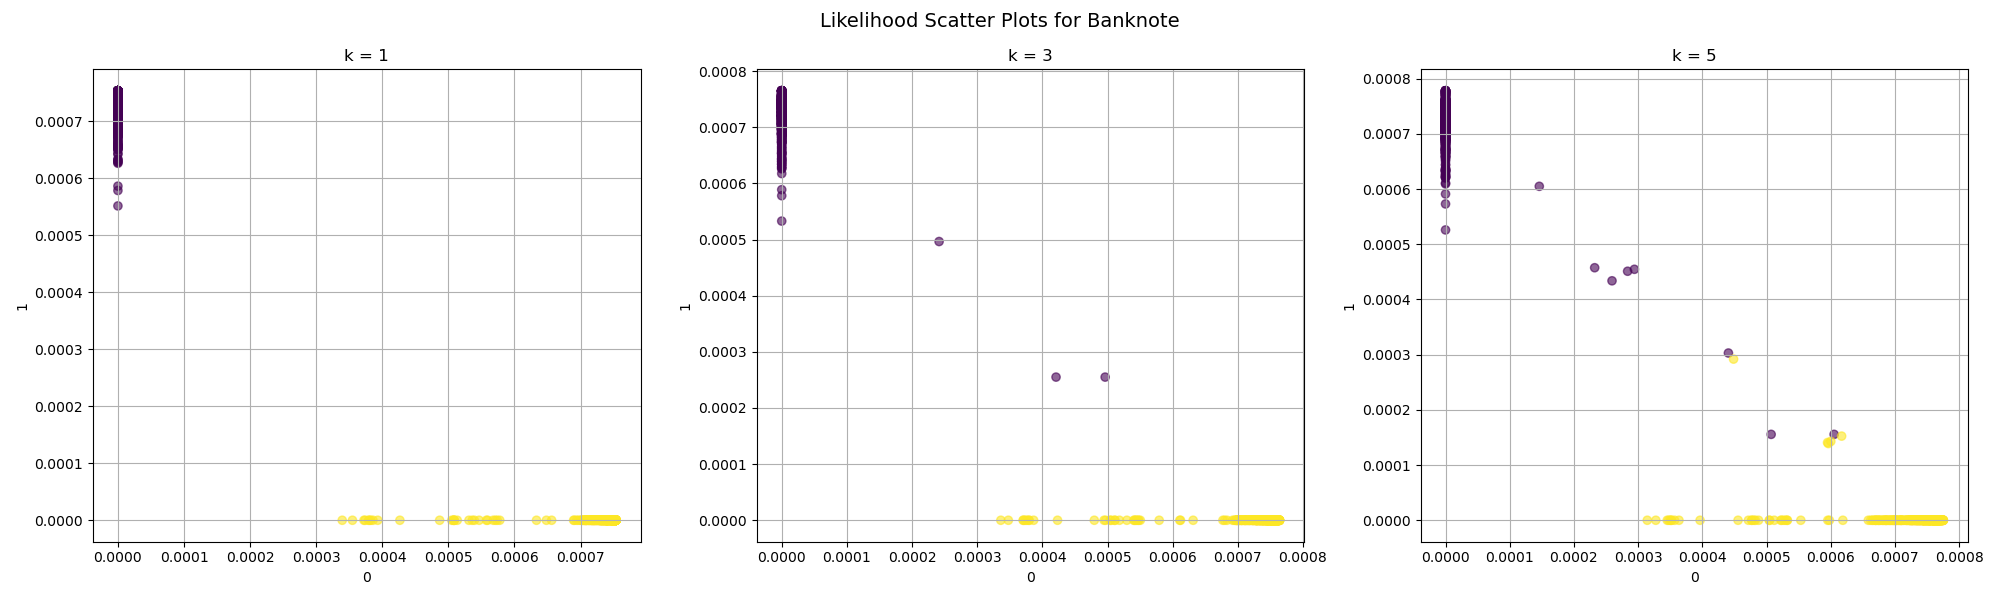
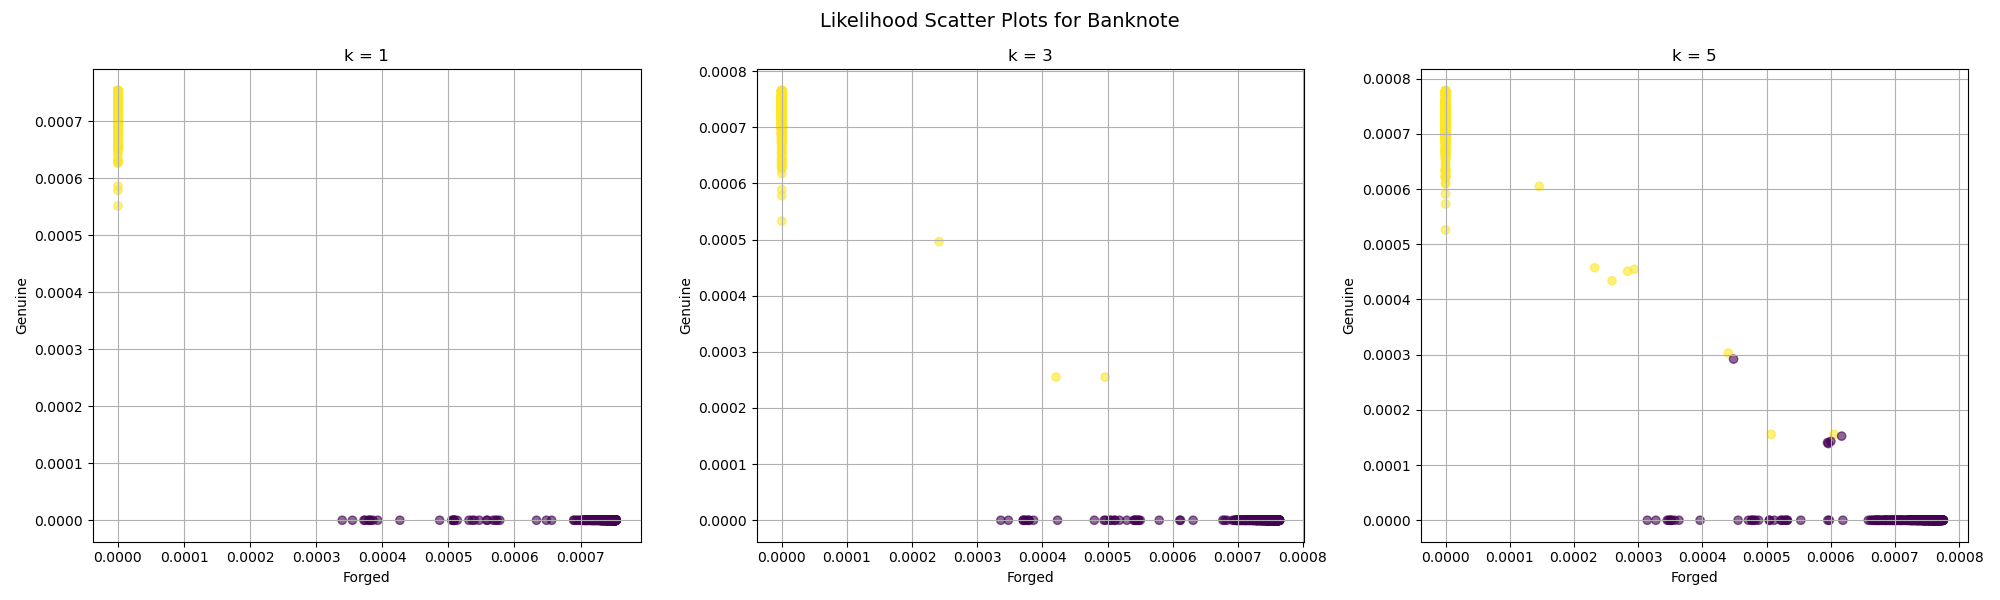
Update dataset metadata and improve label mapping in real dataset loading functions

diff --git a/scripts/real_prepare.py b/scripts/real_prepare.py
@@ -100,6 +100,8 @@ def store_real_dataset(X, y, name, n_splits=10):
 def load_breast_cancer_dataset():
   data = load_breast_cancer(return_X_y=False)
   X, y = data.data, data.target
+  label_map = {0: "Malignant", 1: "Benign"}
+  y = np.vectorize(label_map.get)(y)
   return X, y.reshape(-1, 1)
 
 def load_pima_diabetes():
@@ -120,29 +122,33 @@ def load_pima_diabetes():
     df[feat] = df[feat].fillna(df[feat].median())
   
   X = df.drop("Outcome", axis=1).values
-  y = df["Outcome"].values.reshape(-1, 1)
-  return X, y
+  y = df["Outcome"].values
+  label_map = {0: "Non-Diabetic", 1: "Diabetic"}
+  y = np.vectorize(label_map.get)(y)
+  return X, y.reshape(-1, 1)
 
 def load_haberman_survival():
   url = "https://archive.ics.uci.edu/ml/machine-learning-databases/haberman/haberman.data"
 
   df = pd.read_csv(url, header=None,
-                    names=["Age","YearOfOperation","PositiveNodes","SurvivalStatus"])
+                    names=["Age", "YearOfOperation", "PositiveNodes", "SurvivalStatus"])
   
   y = df["SurvivalStatus"].values
   X = df.iloc[:, :-1].values
-
+  label_map = {1: "Survived", 2: "Not Survived"}
+  y = np.vectorize(label_map.get)(y)
   return X, y.reshape(-1, 1)
 
 def load_banknote_authentication():
   url = "https://archive.ics.uci.edu/ml/machine-learning-databases/00267/data_banknote_authentication.txt"
 
   df = pd.read_csv(url, header=None,
-                    names=["Variance","Skewness","Curtosis","Entropy","Class"])
+                    names=["Variance", "Skewness", "Curtosis", "Entropy", "Class"])
   
   X = df.iloc[:, :-1].values
   y = df["Class"].values
-  
+  label_map = {0: "Genuine", 1: "Forged"}
+  y = np.vectorize(label_map.get)(y)
   return X, y.reshape(-1, 1)
 
 def load_sonar():
@@ -154,7 +160,8 @@ def load_sonar():
   # Last column is 'M' or 'R'
   X = df.iloc[:, :-1].values
   y = df.iloc[:, -1].values
-
+  label_map = {"M": "Mine", "R": "Rock"}
+  y = np.vectorize(label_map.get)(y)
   return X, y.reshape(-1, 1)
 
 def load_adult_census():
@@ -189,7 +196,8 @@ def load_ionosphere():
 
   X = ionosphere.data.to_numpy()
   y = ionosphere.target.to_numpy()
-
+  label_map = {"b": "Bad", "g": "Good"}
+  y = np.vectorize(label_map.get)(y)
   return X, y.reshape(-1, 1)
 
 def load_spect_heart():
@@ -197,7 +205,8 @@ def load_spect_heart():
 
   X = spect.data.to_numpy()
   y = spect.target.to_numpy().astype(int)
-
+  label_map = {0: "Normal", 1: "Abnormal"}
+  y = np.vectorize(label_map.get)(y)
   return X, y.reshape(-1, 1)
 
 def load_all_datasets():

diff --git a/scripts/real_compare.py b/scripts/real_compare.py
@@ -105,7 +105,14 @@ def main():
 
         nn_predicted = load_predicted_samples(str(nn_predicted_path))
         if nn_predicted:
-          y_pred = [entry.target.target_int for entry in nn_predicted.entries]
+          y_pred = [
+            entry.target.target_str if entry.target.target_str else entry.target.target_int
+            for entry in nn_predicted.entries
+          ]
+          y_true = [
+            entry.ground_truth.target_str if entry.ground_truth.target_str else entry.ground_truth.target_int
+            for entry in test_samples.entries
+          ]
           nn_metrics['accuracy'].append(accuracy_score(y_true, y_pred))
       except subprocess.CalledProcessError as e:
         print(f"nn-clas fold {fold} failed: {e}")
@@ -138,7 +145,14 @@ def main():
 
           knn_predicted = load_predicted_samples(str(knn_predicted_path))
           if knn_predicted:
-            y_pred = [entry.target.target_int for entry in knn_predicted.entries]
+            y_pred = [
+              entry.target.target_str if entry.target.target_str else entry.target.target_int
+              for entry in knn_predicted.entries
+            ]
+            y_true = [
+              entry.ground_truth.target_str if entry.ground_truth.target_str else entry.ground_truth.target_int
+              for entry in test_samples.entries
+            ]
             knn_metrics['k_metrics'][k]['accuracy'].append(accuracy_score(y_true, y_pred))
       except subprocess.CalledProcessError as e:
         print(f"knn-clas fold {fold} failed: {e}")

diff --git a/scripts/comparison_results/setsresults_timing.tex b/scripts/comparison_results/setsresults_timing.tex
@@ -5,14 +5,14 @@
 \hline
 \multirow{2}{*}{\textbf{Dataset}} & \multicolumn{2}{c|}{\textbf{Training (ms)}} & \multicolumn{4}{c|}{\textbf{Prediction (ms)}} \\ \cline{2-7}
  & \textbf{nn} & \textbf{knn} & \textbf{nn} & \textbf{1nn} & \textbf{3nn} & \textbf{5nn} \\ \hline
-Ionosphere & 91.20 & 29.60 & 2.20 & 3.00 & 3.00 & 2.90 \\ \hline
-Binary Digits & 231.00 & 72.70 & 2.60 & 3.00 & 2.90 & 3.00 \\ \hline
-Haberman & 15.00 & 7.00 & 2.10 & 2.50 & 2.20 & 2.40 \\ \hline
-Pima Diabetes & 119.90 & 37.70 & 2.60 & 3.20 & 3.10 & 3.10 \\ \hline
-Banknote & 347.30 & 58.90 & 3.00 & 3.10 & 3.00 & 3.00 \\ \hline
-Sonar & 58.10 & 22.50 & 2.50 & 2.80 & 2.80 & 2.70 \\ \hline
-Breast Cancer & 216.00 & 33.70 & 2.70 & 3.00 & 3.00 & 2.90 \\ \hline
-SPECT Heart & 242.10 & 72.40 & 2.50 & 2.90 & 3.00 & 3.00 \\ \hline
+Ionosphere & 94.30 & 27.30 & 2.40 & 3.00 & 2.90 & 3.20 \\ \hline
+Binary Digits & 227.40 & 72.20 & 2.70 & 3.00 & 2.80 & 2.90 \\ \hline
+Haberman & 16.70 & 6.40 & 2.20 & 3.20 & 3.30 & 3.60 \\ \hline
+Pima Diabetes & 100.80 & 35.80 & 3.20 & 3.10 & 3.10 & 3.20 \\ \hline
+Banknote & 539.90 & 93.30 & 4.70 & 4.40 & 4.80 & 4.90 \\ \hline
+Sonar & 58.90 & 23.60 & 2.40 & 2.90 & 2.60 & 2.60 \\ \hline
+Breast Cancer & 304.00 & 48.90 & 3.90 & 5.10 & 5.40 & 5.20 \\ \hline
+SPECT Heart & 338.00 & 99.30 & 3.90 & 4.00 & 3.80 & 3.80 \\ \hline
 \end{tabular}
 \label{tab:timing}
 \end{center}

diff --git a/scripts/comparison_results/setsresults_statistics.tex b/scripts/comparison_results/setsresults_statistics.tex
@@ -5,13 +5,13 @@
 \hline
 \textbf{Dataset} & \textbf{C0/C1} & \textbf{MI} & \textbf{Fisher} & \textbf{Overlap} & \textbf{Imb.Ratio} \\ \hline
 Ionosphere & 0.56 & 0.21 & 0.11 & 0.85 & 1.79 \\ \hline
-Binary Digits & 0.98 & 0.18 & 1.39 & 0.44 & 1.02 \\ \hline
-Haberman & 2.78 & 0.04 & 0.07 & 1.0 & 2.78 \\ \hline
-Pima Diabetes & 1.87 & 0.05 & 0.18 & 0.88 & 1.87 \\ \hline
-Banknote & 1.25 & 0.19 & 0.7 & 0.75 & 1.25 \\ \hline
+Binary Digits & 0.98 & 0.17 & 1.39 & 0.44 & 1.02 \\ \hline
+Haberman & 0.36 & 0.01 & 0.07 & 1.0 & 2.78 \\ \hline
+Pima Diabetes & 0.54 & 0.05 & 0.18 & 0.88 & 1.87 \\ \hline
+Banknote & 0.8 & 0.19 & 0.7 & 0.75 & 1.25 \\ \hline
 Sonar & 1.14 & 0.03 & 0.09 & 1.0 & 1.14 \\ \hline
-Breast Cancer & 0.59 & 0.21 & 1.03 & 0.47 & 1.68 \\ \hline
-SPECT Heart & 0.37 & 0.07 & 0.18 & 0.91 & 2.67 \\ \hline
+Breast Cancer & 1.68 & 0.21 & 1.03 & 0.47 & 1.68 \\ \hline
+SPECT Heart & 2.67 & 0.07 & 0.18 & 0.91 & 2.67 \\ \hline
 \end{tabular}
 \label{tab:statistics}
 \end{center}

diff --git a/scripts/comparison_results/setsresults_accuracy.tex b/scripts/comparison_results/setsresults_accuracy.tex
@@ -5,14 +5,14 @@
 \hline
 \multirow{2}{*}{\textbf{Dataset}} & \multicolumn{4}{c|}{\textbf{Accuracy}} \\ \cline{2-5}
  & \textbf{nn} & \textbf{1nn} & \textbf{3nn} & \textbf{5nn} \\ \hline
-Ionosphere & 1.00 & 1.00 & 1.00 & 1.00 \\ \hline
+Ionosphere & 0.88 & 0.86 & 0.89 & 0.88 \\ \hline
 Binary Digits & 1.00 & 1.00 & 1.00 & 1.00 \\ \hline
-Haberman & 0.67 & 0.69 & 0.72 & 0.70 \\ \hline
-Pima Diabetes & 0.76 & 0.68 & 0.73 & 0.76 \\ \hline
+Haberman & 0.69 & 0.66 & 0.73 & 0.70 \\ \hline
+Pima Diabetes & 0.76 & 0.70 & 0.75 & 0.74 \\ \hline
 Banknote & 1.00 & 1.00 & 1.00 & 1.00 \\ \hline
-Sonar & 1.00 & 1.00 & 1.00 & 1.00 \\ \hline
-Breast Cancer & 0.95 & 0.95 & 0.96 & 0.96 \\ \hline
-SPECT Heart & 0.70 & 0.87 & 0.86 & 0.83 \\ \hline
+Sonar & 0.73 & 0.88 & 0.87 & 0.86 \\ \hline
+Breast Cancer & 0.95 & 0.94 & 0.96 & 0.96 \\ \hline
+SPECT Heart & 0.70 & 0.86 & 0.85 & 0.82 \\ \hline
 \end{tabular}
 \label{tab:accuracy}
 \end{center}

diff --git a/scripts/comparison_results/setsresults_support.tex b/scripts/comparison_results/setsresults_support.tex
@@ -6,13 +6,13 @@
 \multirow{2}{*}{\textbf{Dataset}} & \multicolumn{2}{c|}{\textbf{Support Samples}} \\ \cline{2-3}
  & \textbf{nn} & \textbf{knn} \\ \hline
 Ionosphere & 111 & 252 \\ \hline
-Binary Digits & 124 & 269 \\ \hline
-Haberman & 39 & 270 \\ \hline
-Pima Diabetes & 141 & 619 \\ \hline
+Binary Digits & 126 & 269 \\ \hline
+Haberman & 39 & 273 \\ \hline
+Pima Diabetes & 133 & 602 \\ \hline
 Banknote & 170 & 206 \\ \hline
 Sonar & 87 & 186 \\ \hline
-Breast Cancer & 101 & 344 \\ \hline
-SPECT Heart & 99 & 278 \\ \hline
+Breast Cancer & 102 & 342 \\ \hline
+SPECT Heart & 96 & 278 \\ \hline
 \end{tabular}
 \label{tab:support}
 \end{center}
